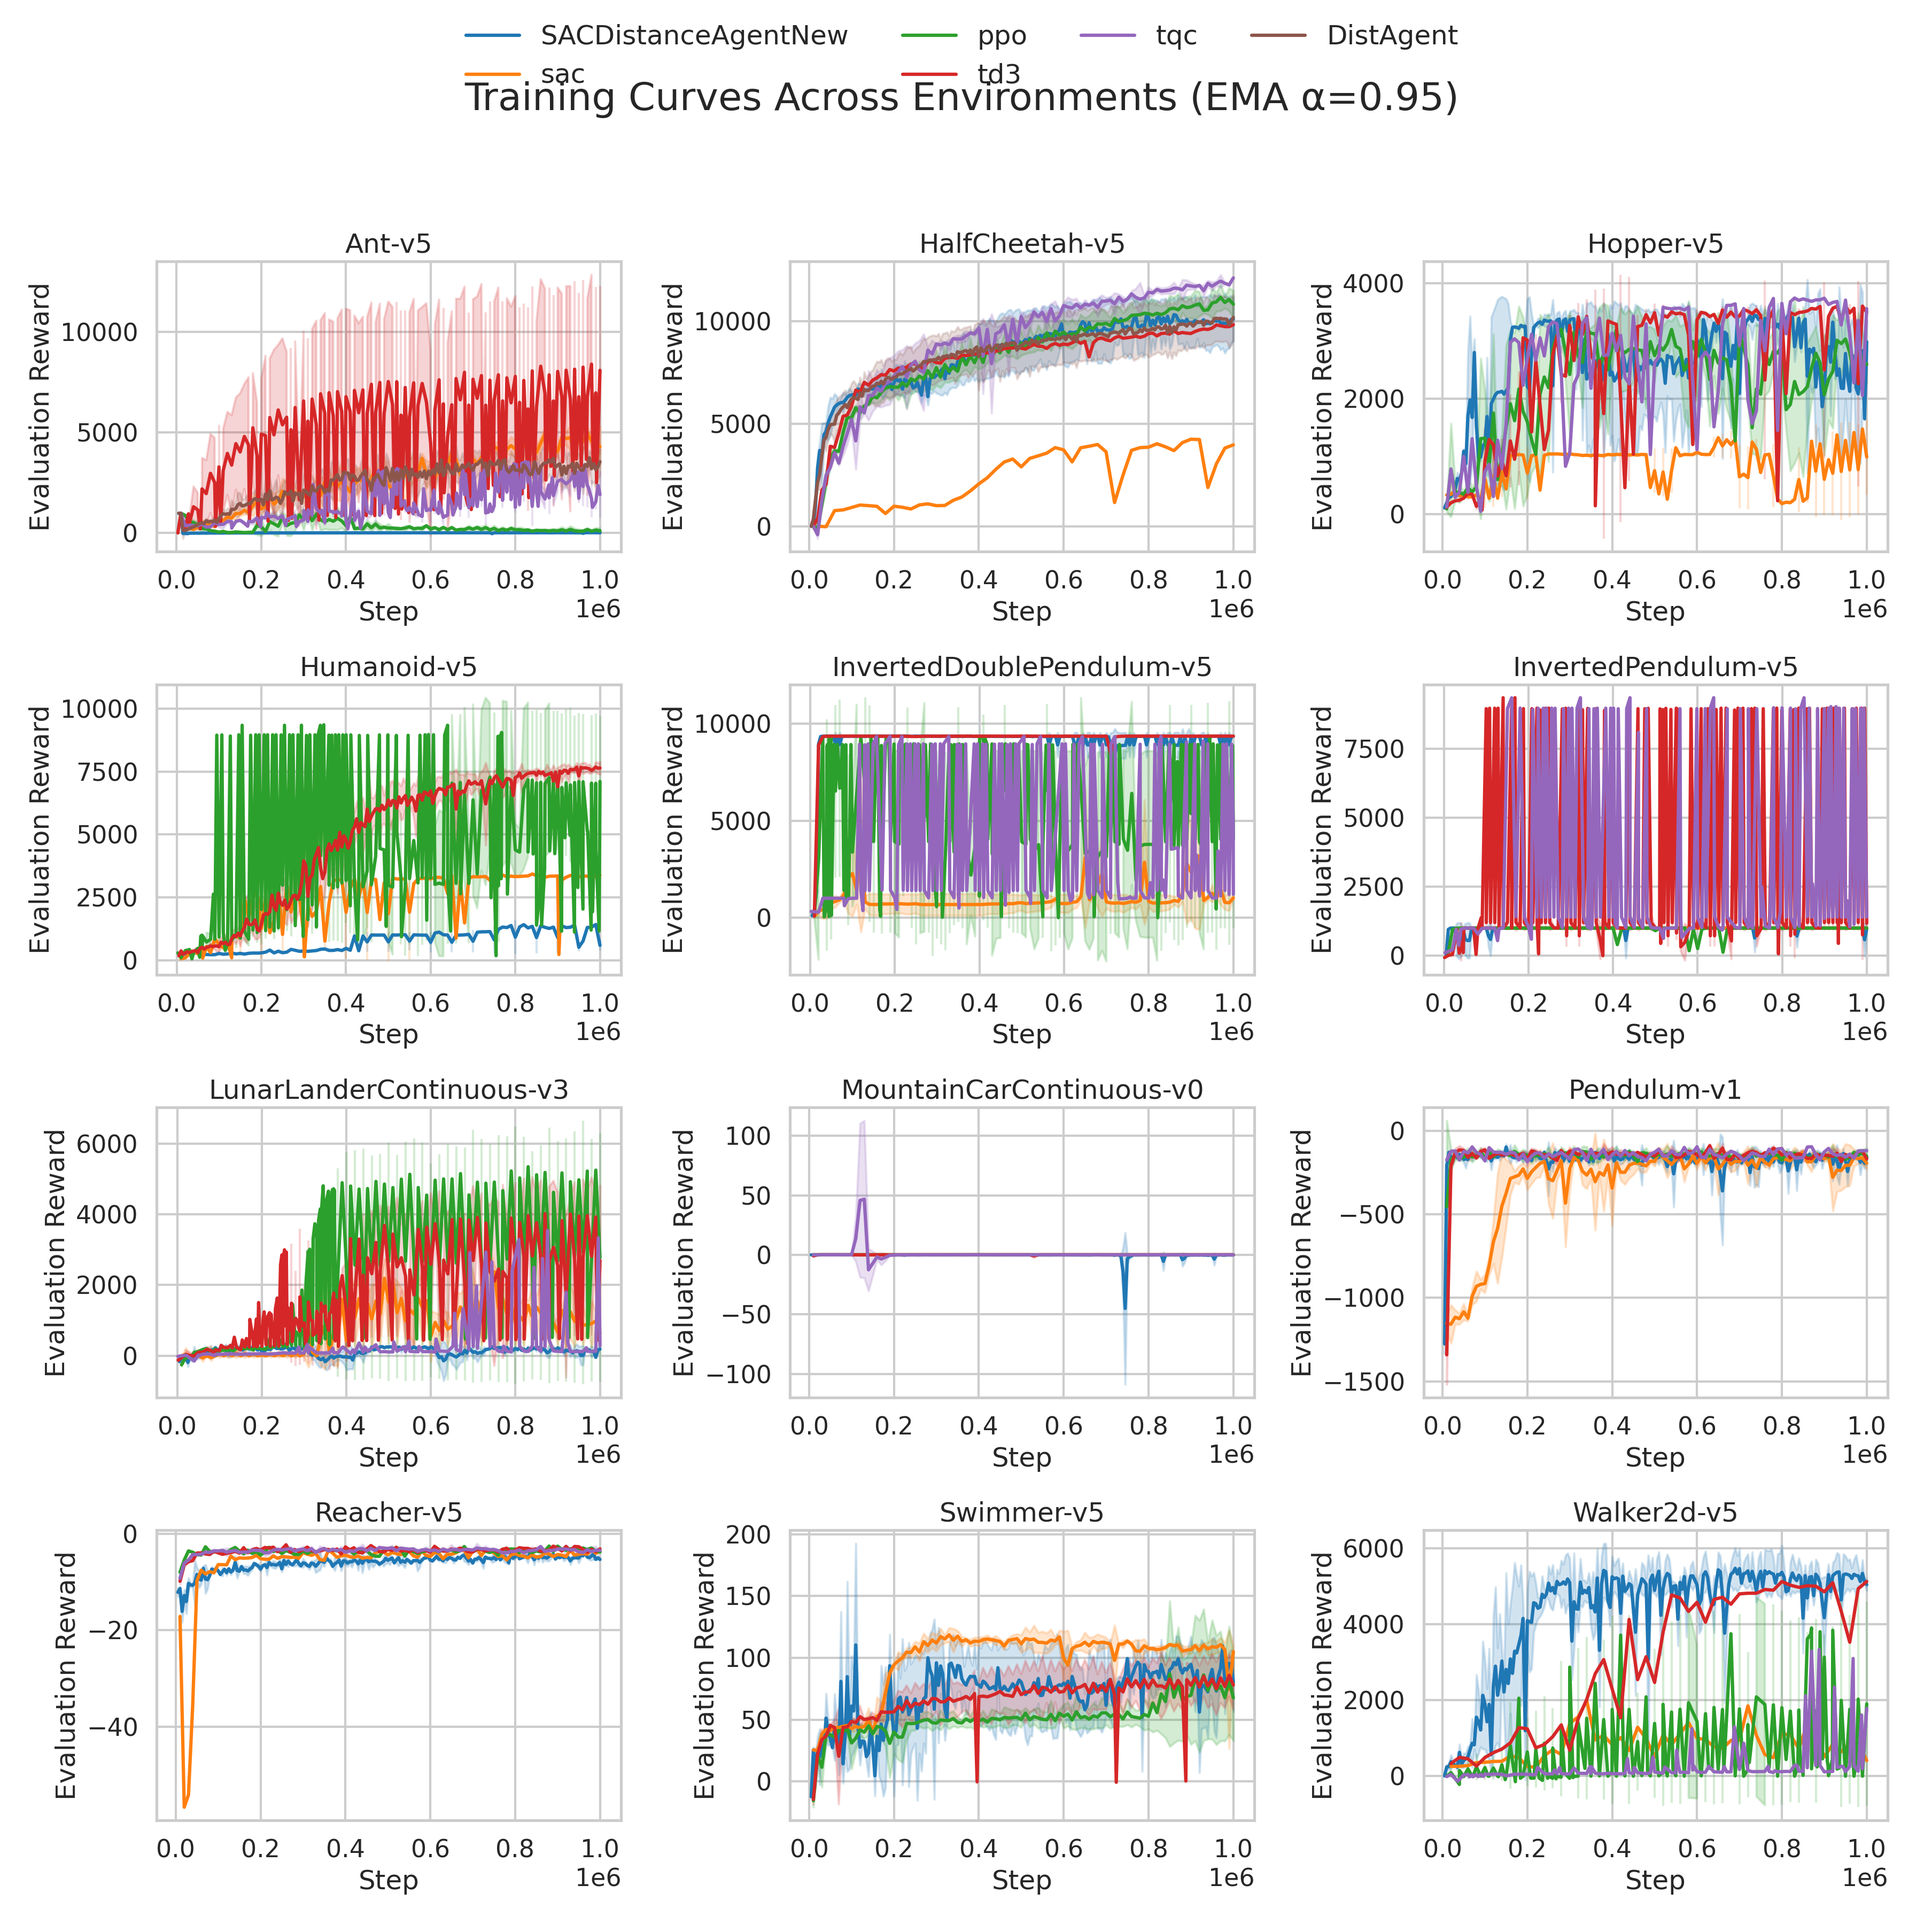
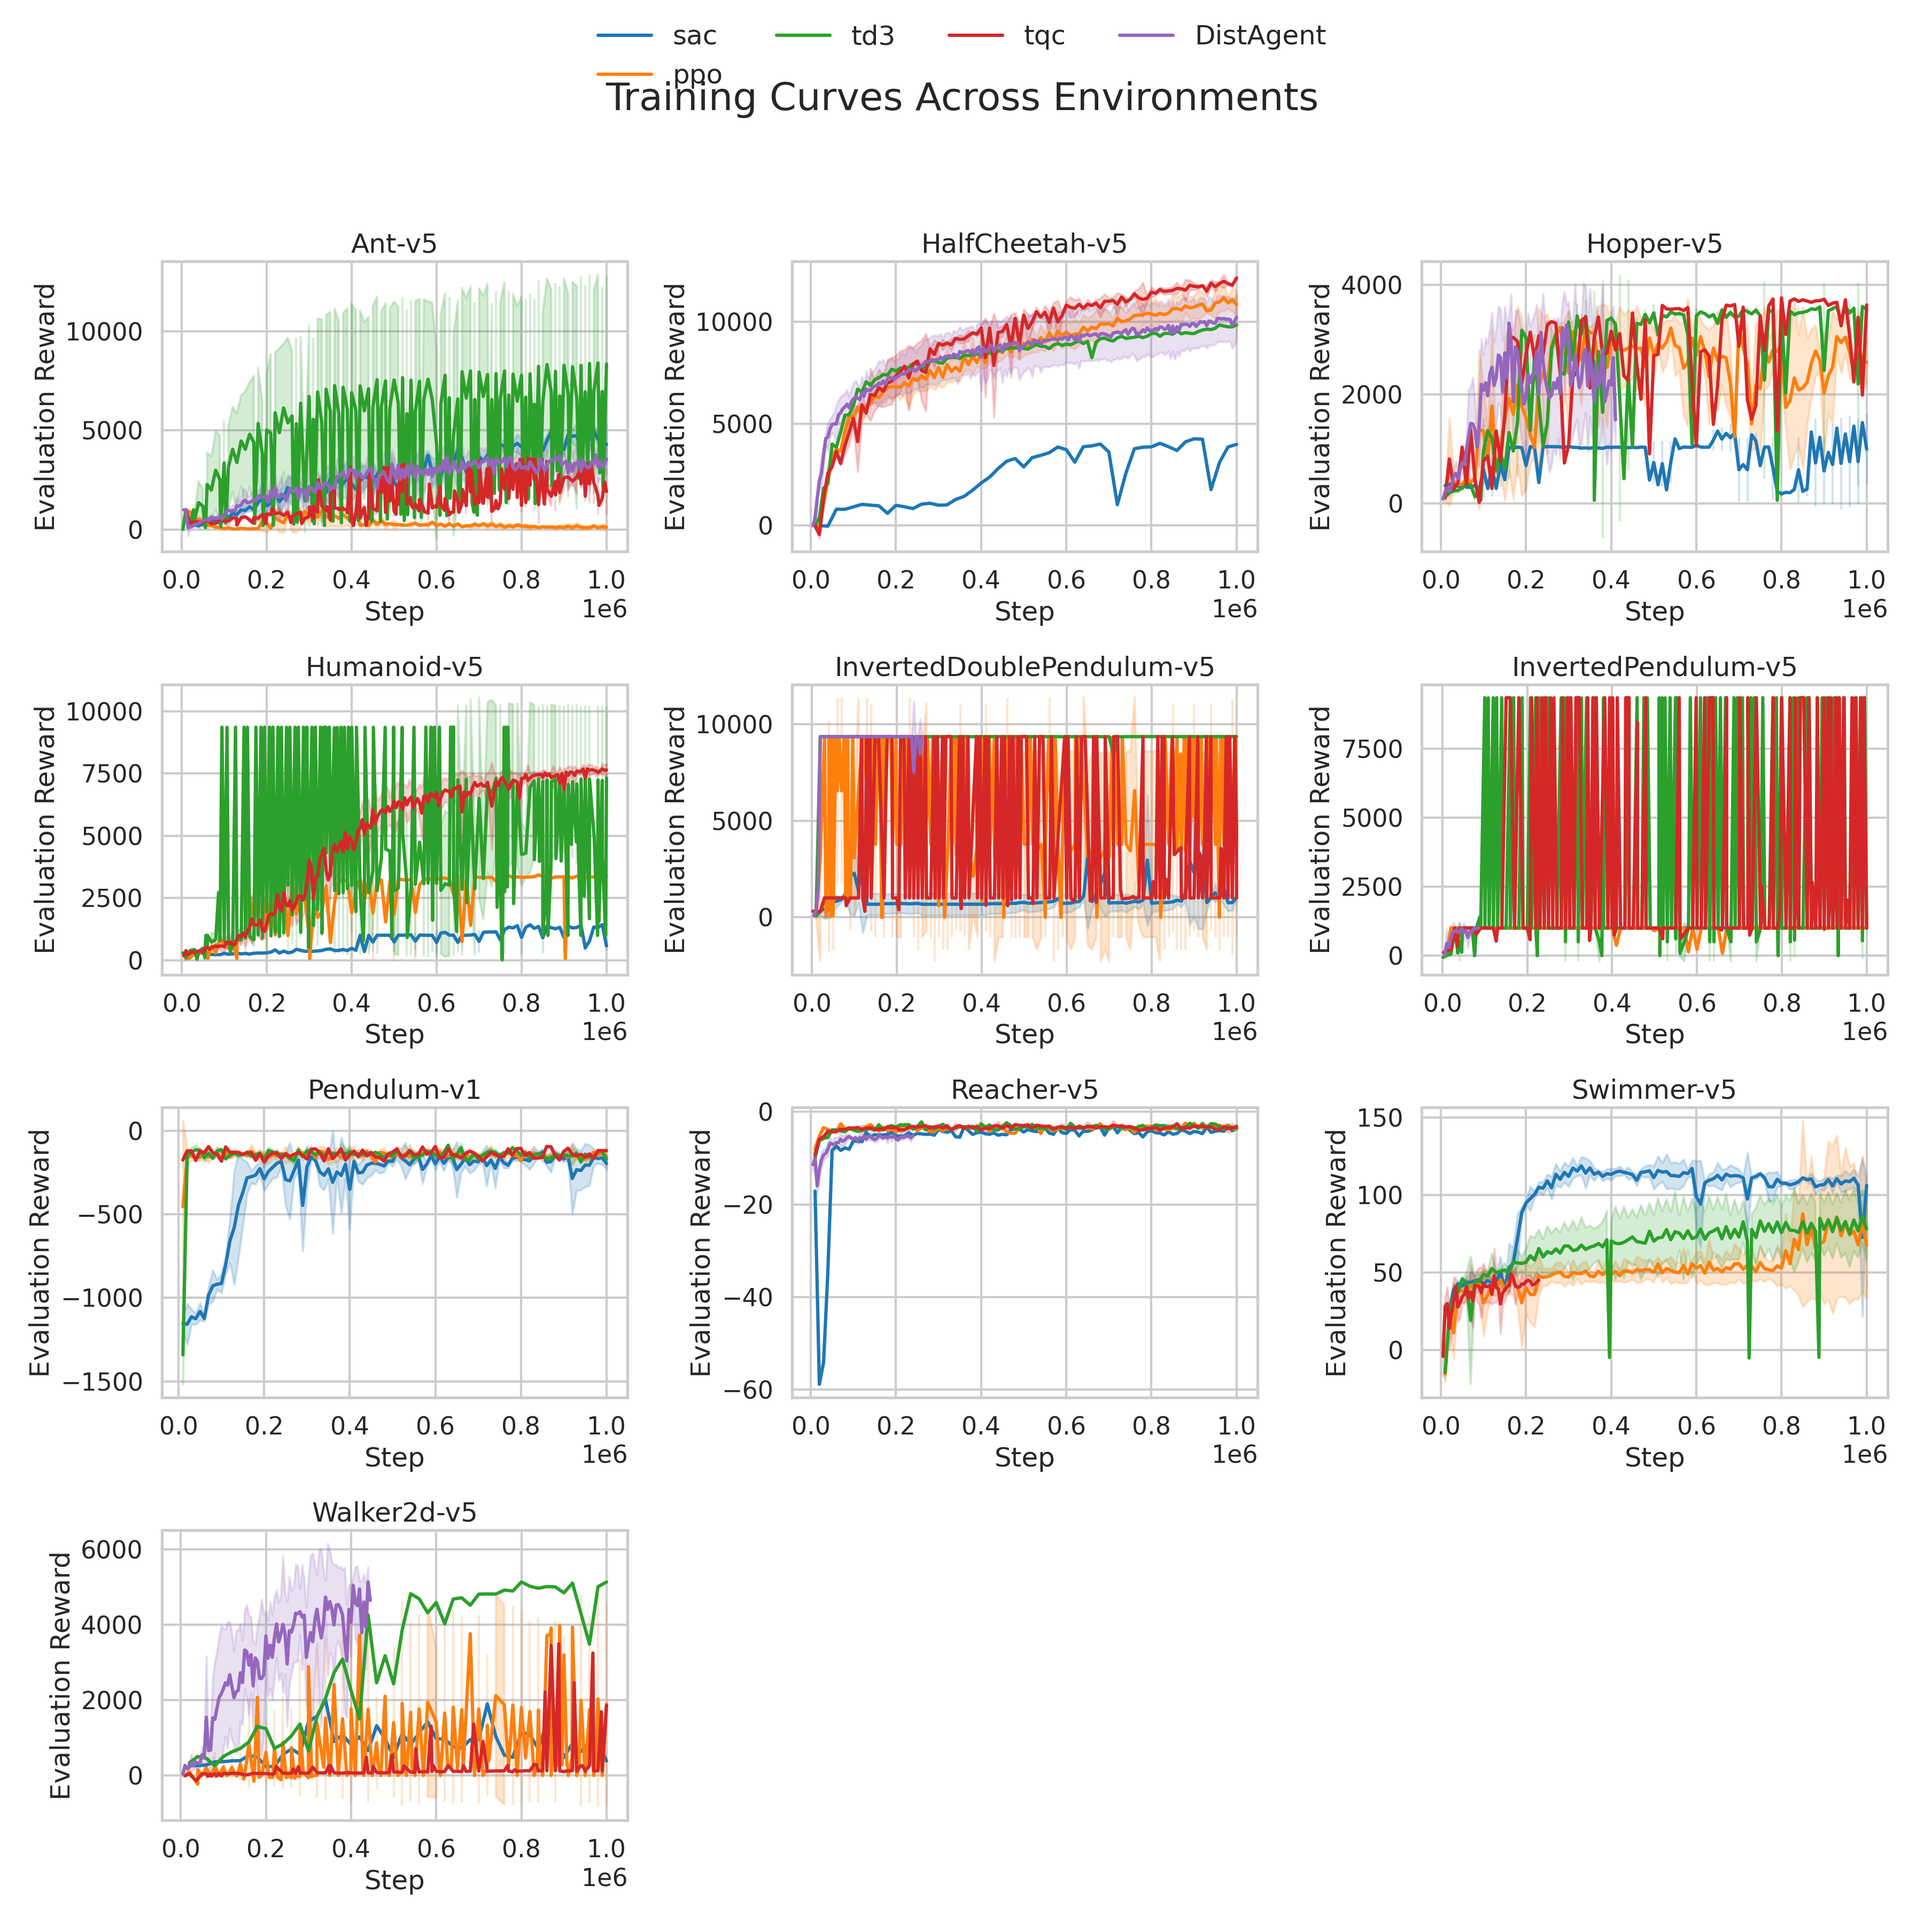
Updated visualizers

diff --git a/results_analysis/visualize_training.py b/results_analysis/visualize_training.py
@@ -20,31 +20,205 @@ def load_results(csv_path: Path) -> pd.DataFrame:
     return df.dropna(subset=["env", "algo", "step", "eval_reward"])
 
 
-def apply_ema_smoothing(df: pd.DataFrame, alpha: float) -> pd.DataFrame:
-    if not (0.0 < alpha < 1.0):
+def print_data_summary(df: pd.DataFrame) -> None:
+    """Print a summary of the dataset showing algorithms and seeds per environment.
+    
+    Args:
+        df: DataFrame with columns [env, algo, seed, step, eval_reward]
+    """
+    print("\n" + "="*70)
+    print("DATASET SUMMARY")
+    print("="*70)
+    
+    # Overall statistics
+    total_rows = len(df)
+    total_envs = df['env'].nunique()
+    total_algos = df['algo'].nunique()
+    total_seeds = df['seed'].nunique()
+    
+    print(f"\n📊 Overall Statistics:")
+    print(f"   Total data points:  {total_rows:,}")
+    print(f"   Environments:       {total_envs}")
+    print(f"   Algorithms:         {total_algos}")
+    print(f"   Unique seeds:       {total_seeds}")
+    
+    # Per-environment breakdown
+    print(f"\n🔍 Per-Environment Breakdown:")
+    print(f"{'Environment':<30s} {'Algorithms':<20s} {'Seeds':<10s} {'Runs':<10s}")
+    print("-" * 70)
+    
+    for env in sorted(df['env'].unique()):
+        env_df = df[df['env'] == env]
+        algos = sorted(env_df['algo'].unique())
+        seeds = sorted(env_df['seed'].unique())
+        
+        # Count runs (unique algo-seed combinations)
+        runs = env_df.groupby(['algo', 'seed']).ngroups
+        
+        # Format algorithm names
+        algo_str = ', '.join(algos) if len(algos) <= 3 else f"{algos[0]}, ... ({len(algos)} total)"
+        
+        print(f"{env:<30s} {algo_str:<20s} {len(seeds):<10d} {runs:<10d}")
+    
+    # Algorithm-wise summary
+    print(f"\n🤖 Algorithm-wise Summary:")
+    print(f"{'Algorithm':<20s} {'Environments':<15s} {'Seeds':<10s} {'Total Runs':<12s}")
+    print("-" * 70)
+    
+    for algo in sorted(df['algo'].unique()):
+        algo_df = df[df['algo'] == algo]
+        envs = algo_df['env'].nunique()
+        seeds = sorted(algo_df['seed'].unique())
+        runs = algo_df.groupby(['env', 'seed']).ngroups
+        
+        print(f"{algo:<20s} {envs:<15d} {len(seeds):<10d} {runs:<12d}")
+    
+    # Detailed run matrix
+    print(f"\n📋 Run Matrix (Algo × Env):")
+    
+    # Create pivot table showing number of seeds per algo-env combination
+    run_matrix = df.groupby(['algo', 'env'])['seed'].nunique().unstack(fill_value=0)
+    
+    # Print with nice formatting
+    print("\n" + run_matrix.to_string())
+    
+    print("\n" + "="*70 + "\n")
+
+
+def print_performance_tables(df: pd.DataFrame) -> None:
+    """Print performance tables showing max reward statistics per algorithm per environment.
+    
+    Args:
+        df: DataFrame with columns [env, algo, seed, step, eval_reward]
+    """
+    print("\n" + "="*70)
+    print("PERFORMANCE SUMMARY - Maximum Reward Statistics")
+    print("="*70)
+    
+    # Get maximum reward for each (env, algo, seed) combination
+    max_rewards = df.groupby(['env', 'algo', 'seed'])['eval_reward'].max().reset_index()
+    max_rewards.columns = ['env', 'algo', 'seed', 'max_reward']
+    
+    # Calculate mean and std across seeds for each (env, algo) combination
+    stats = max_rewards.groupby(['env', 'algo'])['max_reward'].agg(['mean', 'std', 'count']).reset_index()
+    
+    # Print table for each environment
+    for env in sorted(df['env'].unique()):
+        print(f"\n📊 {env}")
+        print("-" * 70)
+        
+        env_stats = stats[stats['env'] == env].copy()
+        
+        if len(env_stats) == 0:
+            print("   No data available")
+            continue
+        
+        # Sort by mean reward (descending)
+        env_stats = env_stats.sort_values('mean', ascending=False)
+        
+        # Print header
+        print(f"{'Algorithm':<20s} {'Mean Max Reward':<20s} {'Std':<15s} {'Seeds':<10s}")
+        print("-" * 70)
+        
+        # Print each algorithm's stats
+        for _, row in env_stats.iterrows():
+            algo = row['algo']
+            mean_val = row['mean']
+            std_val = row['std'] if not pd.isna(row['std']) else 0.0
+            count = int(row['count'])
+            
+            mean_str = f"{mean_val:>10.2f}"
+            std_str = f"± {std_val:>8.2f}" if count > 1 else "N/A"
+            
+            print(f"{algo:<20s} {mean_str:<20s} {std_str:<15s} {count:<10d}")
+    
+    # Print overall summary table (all environments combined)
+    print(f"\n" + "="*70)
+    print("OVERALL SUMMARY (All Environments)")
+    print("="*70)
+    print(f"{'Algorithm':<20s} {'Avg Max Reward':<20s} {'Overall Std':<15s} {'Total Runs':<12s}")
+    print("-" * 70)
+    
+    overall_stats = max_rewards.groupby('algo')['max_reward'].agg(['mean', 'std', 'count']).reset_index()
+    overall_stats = overall_stats.sort_values('mean', ascending=False)
+    
+    for _, row in overall_stats.iterrows():
+        algo = row['algo']
+        mean_val = row['mean']
+        std_val = row['std'] if not pd.isna(row['std']) else 0.0
+        count = int(row['count'])
+        
+        mean_str = f"{mean_val:>10.2f}"
+        std_str = f"± {std_val:>8.2f}"
+        
+        print(f"{algo:<20s} {mean_str:<20s} {std_str:<15s} {count:<12d}")
+    
+    print("\n" + "="*70 + "\n")
+
+
+def apply_ema_smoothing(df: pd.DataFrame, smoothing_weight: float) -> pd.DataFrame:
+    """Apply exponential moving average smoothing using pandas ewm.
+    
+    Args:
+        df: DataFrame with columns [env, algo, seed, step, eval_reward]
+        smoothing_weight: Smoothing factor (0 < smoothing_weight < 1).
+                         This is converted to pandas ewm 'alpha' parameter.
+                         Higher smoothing_weight = more smoothing.
+                         pandas alpha = 1 - smoothing_weight (inverted for intuitive behavior)
+    """
+    if not (0.0 < smoothing_weight < 1.0):
         return df
-
-    def _smooth(group: pd.DataFrame) -> pd.DataFrame:
-        group = group.sort_values("step").copy()
-        group["eval_reward"] = group["eval_reward"].ewm(alpha=alpha, adjust=False).mean()
-        return group
-
-    return df.groupby(["env", "algo", "seed"], group_keys=False).apply(_smooth)
+    
+    # Convert our smoothing_weight to pandas ewm alpha parameter
+    # In pandas ewm: alpha closer to 1 = less smoothing (more weight to recent values)
+    # We invert it so higher smoothing_weight = more smoothing
+    pandas_alpha = 1.0 - smoothing_weight
+    
+    # Sort by step and apply ewm smoothing to eval_reward column
+    # Group by (env, algo, seed) to smooth each run independently
+    df = df.sort_values(['env', 'algo', 'seed', 'step']).copy()
+    df['eval_reward'] = df.groupby(['env', 'algo', 'seed'])['eval_reward'].transform(
+        lambda x: x.ewm(alpha=pandas_alpha, adjust=False).mean()
+    )
+    
+    return df
+    
+    return df
 
 
 def visualize(csv_path: Path,
               output_dir: Path,
               show: bool=False,
               ema_alpha: float=0.0,
-              max_step: int=1_000_000) -> None:
+              max_step: int=1_000_000,
+              print_summary: bool=True) -> None:
+    
     df = load_results(csv_path)
-    if max_step is not None:
-        df = df[df["step"] <= max_step]
-    if 0.0 < ema_alpha < 1.0:
-        df = apply_ema_smoothing(df, ema_alpha)
+    
     envs = sorted(df["env"].unique())
     if not envs:
         raise ValueError("No environments found in results file")
+    
+    #drop algorithms on list
+    drop_algos = ['SACDistanceAgentNew']
+    df = df[~df["algo"].isin(drop_algos)]
+    
+    #drop envs on list
+    drop_envs = ['LunarLanderContinuous-v3', 'MountainCarContinuous-v0']
+    envs = [env for env in envs if env not in drop_envs]
+    
+    
+    # Print data summary
+    if print_summary:
+        print_data_summary(df)
+        print_performance_tables(df)
+    
+    if max_step is not None:
+        df = df[df["step"] <= max_step]
+    if 0.0 < ema_alpha < 1.0:
+        df = apply_ema_smoothing(df, smoothing_weight=ema_alpha)
+        
+
 
     sns.set_theme(style="whitegrid", context="talk", palette="tab10")
 
@@ -121,11 +295,13 @@ def parse_args() -> argparse.Namespace:
                         help="Path to results_full.csv")
     parser.add_argument("--out", type=Path, default=Path("results_analysis/plots"),
                         help="Directory to save plot images")
-    parser.add_argument("--show", action="store_true", help="Display plots interactively")
-    parser.add_argument("--ema-alpha", type=float, default=0.95,
-                        help="Optional EMA smoothing parameter (0 disables)")
+    parser.add_argument("--show", default=False, action="store_true", help="Display plots interactively")
+    parser.add_argument("--ema-alpha", type=float, default=0.0,
+                        help="EMA smoothing factor (0-1). Higher=more smoothing. 0=disabled. Recommended: 0.1-0.5")
     parser.add_argument("--max-step", type=int, default=1_000_000,
                         help="Maximum training step to plot (set negative to include all)")
+    parser.add_argument("--no-summary", action="store_true",
+                        help="Disable printing dataset summary")
     return parser.parse_args()
 
 
@@ -136,7 +312,8 @@ def main() -> None:
               args.out,
               show=args.show,
               ema_alpha=args.ema_alpha,
-              max_step=max_step)
+              max_step=max_step,
+              print_summary=not args.no_summary)
 
 
 if __name__ == "__main__":

diff --git a/results_analysis/querry_data.py b/results_analysis/querry_data.py
@@ -46,6 +46,9 @@ def data_fetcher():
         env_id = config['env_id']
         seed = config['seed']
 
+        if algo == 'SACDistanceAgentNew':
+            continue
+
         print(
             f"Run {i+1}/{len(runs)}: - Algo: {algo} - Env: {env_id} - Seed: {seed}")
 
